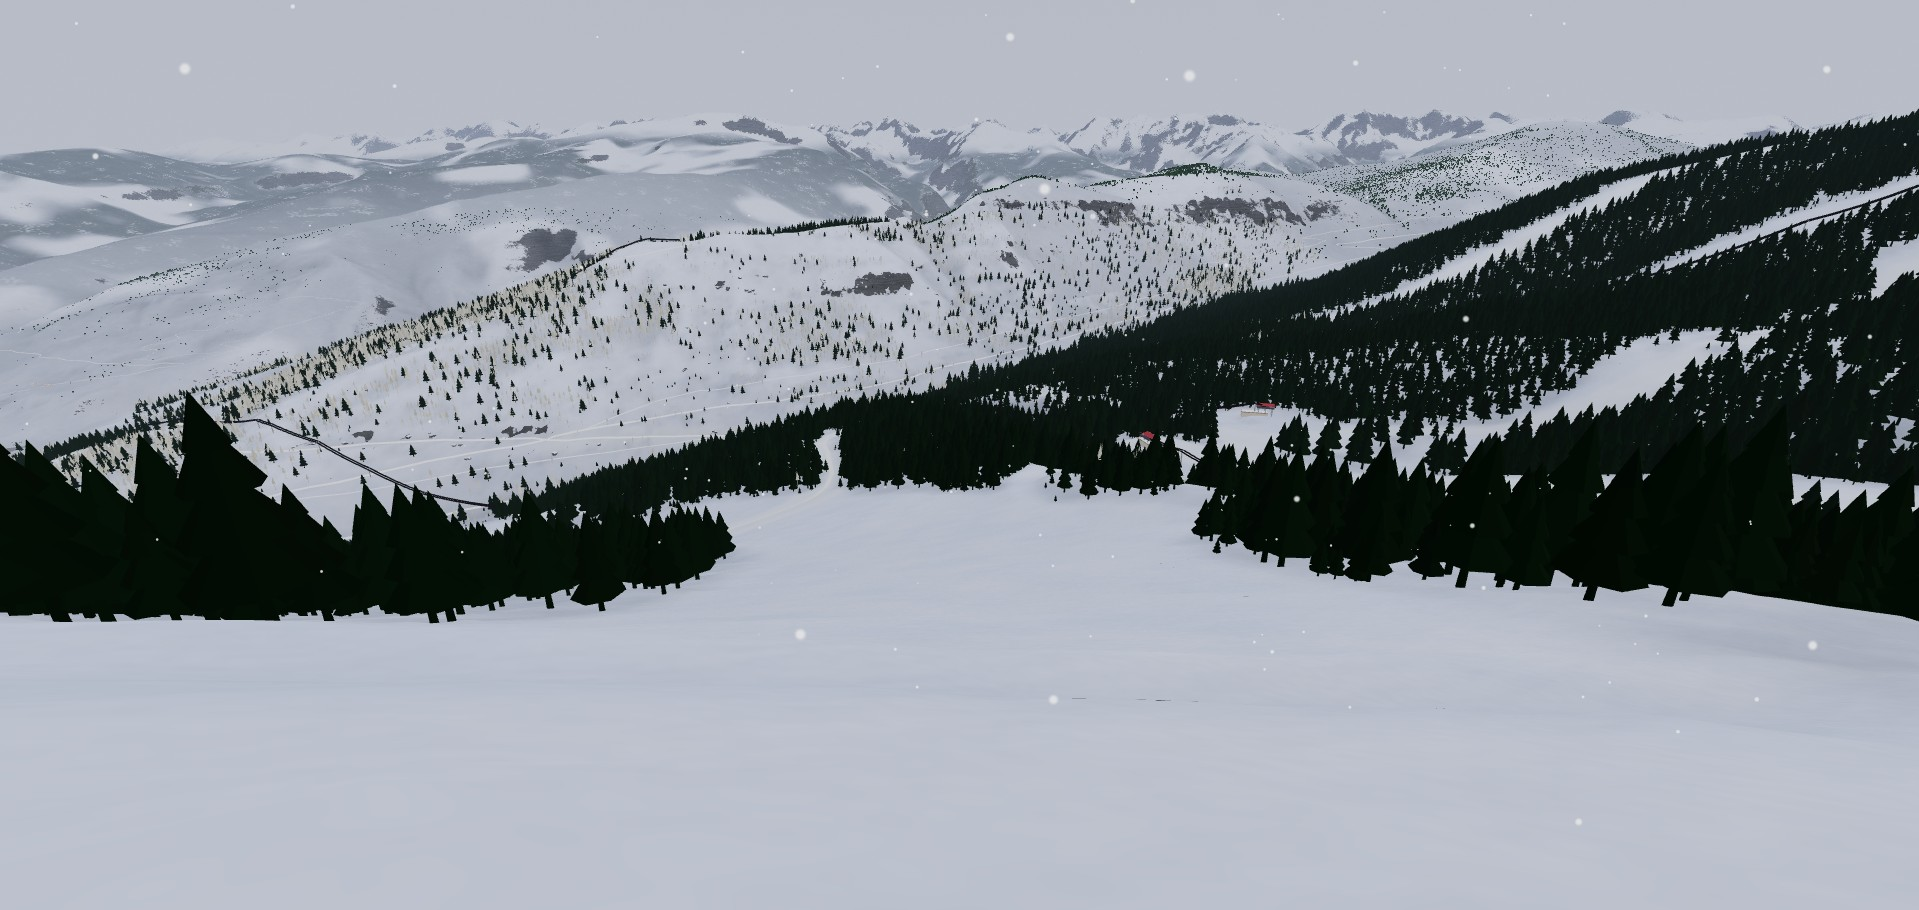
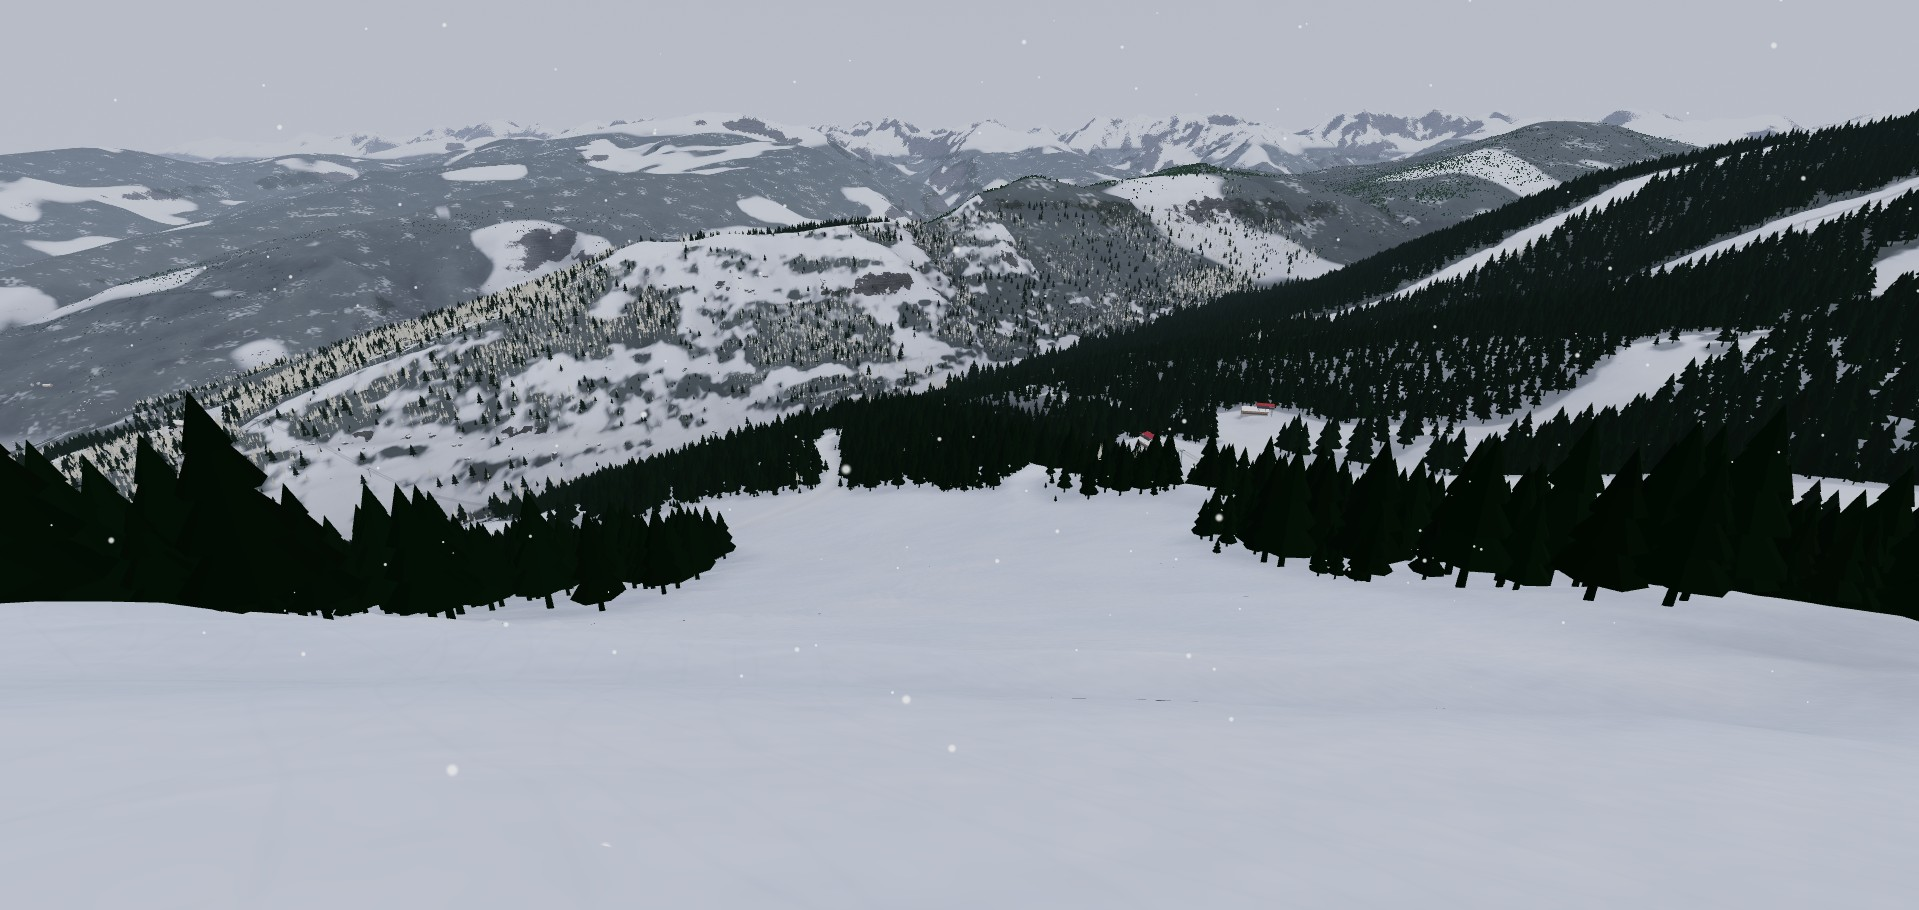
FEAT-059: shade the mogul field on coarse chunks, Vail rebuild notes, compare shots

diff --git a/game/src/terrain/Terrain.ts b/game/src/terrain/Terrain.ts
@@ -1,5 +1,5 @@
 import * as THREE from 'three';
-import { type Pack, MOGUL_MAX_RES } from '../pack/Pack';
+import { type Pack, MOGUL_MAX_RES, MOGUL_SHADE_MAX_RES } from '../pack/Pack';
 import { createTerrainMaterial } from './TerrainMaterial';
 
 /**
@@ -94,6 +94,12 @@ export class Terrain {
     u.uSkied.value = Math.max(0, Math.min(1, skied)); u.uSpring.value = Math.max(0, Math.min(1, spring));
   }
 
+  /** FEAT-059: the mogul field's amplitude multiplier and uphill creep (m) for the shaded (coarse) chunks. */
+  setMoguls(scale: number, creepM: number): void {
+    const u = this.material.userData.uniforms as { uMogulScale: { value: number }; uMogulCreep: { value: number } };
+    u.uMogulScale.value = Math.max(0, Math.min(1, scale)); u.uMogulCreep.value = creepM;
+  }
+
   /** Storm flat light: 0 = normal, 1 = overcast (snow relief and glints fade out). */
   setFlatLight(v: number): void {
     (this.material.userData.uniforms as { uFlat: { value: number } }).uFlat.value = v;
@@ -132,7 +138,7 @@ export class Terrain {
       else if (this.pack.far) this.pack.far.request(c.minX, c.minY, c.minX + c.size, c.minY + c.size);
       if (c.res <= 8 && this.pack.mask) this.pack.mask.request(c.minX, c.minY, c.minX + c.size, c.minY + c.size);
       if (c.res <= AO_MAX_RES && this.pack.ao) this.pack.ao.request(c.minX, c.minY, c.minX + c.size, c.minY + c.size);
-      if (c.res <= MOGUL_MAX_RES && this.pack.moguls) this.pack.moguls.request(c.minX, c.minY, c.minX + c.size, c.minY + c.size); // FEAT-059: bumps only on the finest chunks
+      if (c.res <= MOGUL_SHADE_MAX_RES && this.pack.moguls) this.pack.moguls.request(c.minX, c.minY, c.minX + c.size, c.minY + c.size); // FEAT-059: bump geometry on the finest chunks, shading on the next ones
       if ((!c.mesh || this.dirty.has(c.key)) && builds < MAX_BUILDS_PER_FRAME) {
         this.build(c);
         this.dirty.delete(c.key);
@@ -206,6 +212,9 @@ export class Terrain {
     const col = new Float32Array(vertCount * 3);
     const forest = new Float32Array(vertCount);
     const ao = new Float32Array(vertCount);
+    // FEAT-059: mogul amplitude for the shader on chunks too coarse to carry the bumps as geometry
+    const mogul = new Float32Array(vertCount);
+    const shadeMoguls = !!pack.moguls && res > MOGUL_MAX_RES && res <= MOGUL_SHADE_MAX_RES;
     const aoSet = pack.ao && res <= AO_MAX_RES ? pack.ao : null;
     // footprint for the AO lookup: one 2 m sample near the rider, a 2 x 2 box of samples on coarser chunks
     const aoOff = res > 2 ? res / 4 : 0;
@@ -277,7 +286,9 @@ export class Terrain {
           scree = Math.max(scree, talus * 0.9);
         }
         col[v * 3] = rock; col[v * 3 + 1] = scree * (1 - rock); col[v * 3 + 2] = groom * (1 - rock);
-        if (groom > 0.02) {
+        const mog = shadeMoguls ? pack.mogulAmp(x, y, true) * (1 - rock) : 0;
+        mogul[v] = mog;
+        if (groom > 0.02 || mog > 0.01) {
           const gx = (pack.height(x + FR, y, resB) - pack.height(x - FR, y, resB)) / (2 * FR);
           const gy = (pack.height(x, y + FR, resB) - pack.height(x, y - FR, resB)) / (2 * FR);
           fall[v * 2] = -gx; fall[v * 2 + 1] = gy; // downhill east, and z = -north
@@ -297,7 +308,7 @@ export class Terrain {
       pos[v * 3] = pos[e * 3]; pos[v * 3 + 1] = pos[e * 3 + 1] - skirt; pos[v * 3 + 2] = pos[e * 3 + 2];
       nor[v * 3] = nor[e * 3]; nor[v * 3 + 1] = nor[e * 3 + 1]; nor[v * 3 + 2] = nor[e * 3 + 2];
       col[v * 3] = col[e * 3]; col[v * 3 + 1] = col[e * 3 + 1]; col[v * 3 + 2] = col[e * 3 + 2]; forest[v] = forest[e]; ao[v] = ao[e];
-      fall[v * 2] = fall[e * 2]; fall[v * 2 + 1] = fall[e * 2 + 1];
+      fall[v * 2] = fall[e * 2]; fall[v * 2 + 1] = fall[e * 2 + 1]; mogul[v] = mogul[e];
       v++;
     }
     const idx: number[] = [];
@@ -323,6 +334,7 @@ export class Terrain {
     geo.setAttribute('forest', new THREE.BufferAttribute(forest, 1));
     geo.setAttribute('ao', new THREE.BufferAttribute(ao, 1));
     geo.setAttribute('fall', new THREE.BufferAttribute(fall, 2));
+    geo.setAttribute('mogul', new THREE.BufferAttribute(mogul, 1));
     geo.setIndex(idx);
     geo.computeBoundingSphere();
     if (c.mesh) {

diff --git a/game/src/terrain/TerrainMaterial.ts b/game/src/terrain/TerrainMaterial.ts
@@ -1,4 +1,5 @@
 import * as THREE from 'three';
+import { MOGUL_GLSL } from './Moguls';
 import { NOISE_GLSL, ROCK_GLSL, rockUniforms } from './rockShader';
 
 /**
@@ -72,6 +73,9 @@ export function createTerrainMaterial(): THREE.MeshStandardMaterial {
     uSkied: { value: 0.0 },
     uSpring: { value: 0.0 },
     uSnowLee: { value: new THREE.Vector2(1, 0) },
+    /** FEAT-059: mogul field amplitude multiplier and uphill creep (m) for the shaded coarse chunks */
+    uMogulScale: { value: 1.0 },
+    uMogulCreep: { value: 0.0 },
     /** baked AO strength (1 = as baked; debug A/B with 0) */
     uAO: { value: 1.0 },
     ...rockUniforms(),
@@ -86,15 +90,18 @@ export function createTerrainMaterial(): THREE.MeshStandardMaterial {
         attribute float forest;
         attribute vec2 fall;
         attribute float ao;
+        attribute float mogul;
         varying float vAO;
         varying float vForest;
         varying vec2 vFall;
+        varying float vMogul;
         varying vec3 vWorldPos;
         varying vec3 vWorldNormal;`)
       .replace('#include <worldpos_vertex>', `#include <worldpos_vertex>
         vWorldPos = (modelMatrix * vec4(transformed, 1.0)).xyz;
         vWorldNormal = normalize(mat3(modelMatrix) * objectNormal);
         vFall = fall;
+        vMogul = mogul;
         vAO = ao;
         vForest = forest;`);
 
@@ -106,6 +113,8 @@ export function createTerrainMaterial(): THREE.MeshStandardMaterial {
         varying float vForest;
         varying float vAO;
         varying vec2 vFall;
+        varying float vMogul;
+        uniform float uMogulScale, uMogulCreep;
         uniform float uTime;
         uniform vec3 uSnow, uSnowShade, uGroomed, uShadeTint, uSSS;
         uniform float uWrap, uGlint, uFlat, uAO;
@@ -125,6 +134,7 @@ export function createTerrainMaterial(): THREE.MeshStandardMaterial {
         float gGlintW;
         ${NOISE_GLSL}
         ${ROCK_GLSL}
+        ${MOGUL_GLSL}
         float fbm2(vec2 p) { return 0.6 * vnoise(vec3(p, 0.0)) + 0.3 * vnoise(vec3(p * 2.1, 1.7)) + 0.1 * vnoise(vec3(p * 4.3, 3.1)); }
         // corduroy across the fall line. Returns x = ridge profile (-1..1, already faded by distance),
         // y = ridge slope for the bump, zw = the across-slope direction in world xz. Also outputs the
@@ -301,6 +311,21 @@ export function createTerrainMaterial(): THREE.MeshStandardMaterial {
             float chop = uSkied * (1.0 - 0.7 * uSpring) * wS * (1.0 - smoothstep(40.0, 120.0, length(cameraPosition - wpn)));
             vec3 cb = normalize(vec3(-(cx - c0) / ec, 1.0, -(cz - c0) / ec));
             nn = normalize(mix(nn, normalize(t * cb.x + nn * cb.y + b * cb.z), 0.6 * chop));
+          }
+          // FEAT-059: on chunks too coarse to carry the bumps as geometry, shade the same mogul field
+          // (pack frame: x east, y = -world z north) so a bump run reads from the lift; fades out where
+          // the 5.7 m pattern would shimmer
+          float mogA = vMogul * uMogulScale * snowW * (1.0 - smoothstep(900.0, 1600.0, length(cameraPosition - wpn)));
+          if (mogA > 0.005) {
+            vec2 pxy = vec2(wpn.x, -wpn.z);
+            vec2 pf = vec2(vFall.x, -vFall.y);
+            float em = 0.5;
+            float m0 = mogulH(pxy, pf, mogA, uMogulCreep);
+            float mx = mogulH(pxy + vec2(em, 0.0), pf, mogA, uMogulCreep);
+            float my = mogulH(pxy + vec2(0.0, em), pf, mogA, uMogulCreep);
+            // pack +y is world -z, so the z slope is the negative of the y slope
+            vec3 mb = normalize(vec3(-(mx - m0) / em, 1.0, (my - m0) / em));
+            nn = normalize(t * mb.x + nn * mb.y + b * mb.z);
           }
           // rock and talus carry their own photo normals
           nn = normalize(nn * max(wSnow, 1e-3) + rockN * rockCov + screeN * screeCov);

diff --git a/game/src/terrain/Moguls.ts b/game/src/terrain/Moguls.ts
@@ -22,12 +22,12 @@ const TWO_PI = Math.PI * 2;
 const JITTER_CELL = 25; // m: scale of the phase jitter that breaks the perfect grid
 const JITTER_RAD = 0.8;
 
-/** cheap 2D hash to -1..1 */
+/** cheap 2D hash to -1..1, in uint32 arithmetic so MOGUL_GLSL reproduces it bit for bit */
 function hash(ix: number, iy: number, salt: number): number {
-  let h = (ix * 374761393 + iy * 668265263 + salt * 1442695041) | 0;
-  h = Math.imul(h ^ (h >>> 13), 1274126177);
-  h ^= h >>> 16;
-  return ((h & 0xffff) / 0x7fff) - 1;
+  let h = (Math.imul(ix, 374761393) + Math.imul(iy, 668265263) + Math.imul(salt, 1442695041)) >>> 0;
+  h = Math.imul(h ^ (h >>> 13), 1274126177) >>> 0;
+  h = (h ^ (h >>> 16)) >>> 0;
+  return (h & 0xffff) / 32767.5 - 1;
 }
 
 /** bilinear value noise in -1..1 at a 25 m cell size */
@@ -58,6 +58,38 @@ export function mogulHeight(x: number, y: number, amp: number, fallX: number, fa
   const s = 0.5 + 0.5 * f;
   return a * Math.pow(s, 1.6);
 }
+
+/**
+ * The same field in GLSL for the terrain shader, which shades coarser chunks (no bump geometry) with
+ * it: mogulH(pxy, fall, amp, creep) takes pack coordinates (x east, y north) and the downhill
+ * direction in the same frame. Keep in step with mogulHeight above.
+ */
+export const MOGUL_GLSL = /* glsl */ `
+  float mogHash(int ix, int iy, int salt) {
+    uint h = uint(ix) * 374761393u + uint(iy) * 668265263u + uint(salt) * 1442695041u;
+    h = (h ^ (h >> 13u)) * 1274126177u;
+    h ^= h >> 16u;
+    return float(h & 0xffffu) / 32767.5 - 1.0;
+  }
+  float mogJitter(vec2 p, int salt) {
+    vec2 f = p / ${JITTER_CELL.toFixed(1)};
+    vec2 i = floor(f);
+    vec2 t = f - i;
+    t = t * t * (3.0 - 2.0 * t);
+    int ix = int(i.x), iy = int(i.y);
+    float a = mogHash(ix, iy, salt), b = mogHash(ix + 1, iy, salt), c = mogHash(ix, iy + 1, salt), d = mogHash(ix + 1, iy + 1, salt);
+    return mix(mix(a, b, t.x), mix(c, d, t.x), t.y);
+  }
+  float mogulH(vec2 pxy, vec2 fall, float amp, float creep) {
+    float l = length(fall);
+    vec2 fd = l > 1e-6 ? fall / l : vec2(1.0, 0.0);
+    float u = dot(pxy, fd);
+    float v = -pxy.x * fd.y + pxy.y * fd.x;
+    float k = 6.2831853 / ${MOGUL_SPACING.toFixed(2)};
+    float f = sin(k * (u + creep) + ${JITTER_RAD.toFixed(2)} * mogJitter(pxy, 1)) * sin(k * v + ${JITTER_RAD.toFixed(2)} * mogJitter(pxy, 2));
+    return amp * pow(0.5 + 0.5 * f, 1.6);
+  }
+`;
 
 /**
  * Unit downhill direction at (x, y) from central differences of `baseH` at +-d metres, written into

diff --git a/game/src/pack/Pack.ts b/game/src/pack/Pack.ts
@@ -3,8 +3,10 @@ import { MaskSet } from './MaskSet';
 import type { Features, PackMeta } from './types';
 import { fallFrom, mogulHeight } from '../terrain/Moguls';
 
-/** chunks at this resolution or finer carry the mogul bumps (coarser ones average them out) */
+/** chunks at this resolution or finer carry the mogul bumps in their geometry */
 export const MOGUL_MAX_RES = 2;
+/** coarser chunks up to this resolution shade the same field in the terrain shader (seen from the lift) */
+export const MOGUL_SHADE_MAX_RES = 16;
 
 /** A straight bridge deck segment (pack metres). The surface runs from a to b at the given z. */
 export interface Deck { ax: number; ay: number; az: number; bx: number; by: number; bz: number; hw: number }
@@ -100,9 +102,9 @@ export class Pack {
   private readonly fallTmp = [1, 0];
 
   /** FEAT-059: mogul amplitude (m) at a point from the pack's moguls set; 0 without the set or its tile. */
-  mogulAmp(x: number, y: number): number {
-    if (!this.moguls || this.mogulScale <= 0) return 0;
-    return this.moguls.sampleBilinear(x, y, this.mogTmp)[0] * this.mogulScale;
+  mogulAmp(x: number, y: number, raw = false): number {
+    if (!this.moguls || (!raw && this.mogulScale <= 0)) return 0;
+    return this.moguls.sampleBilinear(x, y, this.mogTmp)[0] * (raw ? 1 : this.mogulScale);
   }
 
   /** FEAT-059: the bump height at a point: the field's amplitude here, aligned to the local fall line. */

diff --git a/game/src/main.ts b/game/src/main.ts
@@ -873,6 +873,7 @@ function runSession(pack: Pack, renderer: THREE.WebGLRenderer, canvas: HTMLCanva
         const seasonStart = Date.UTC(d.getUTCMonth() >= 10 ? d.getUTCFullYear() : d.getUTCFullYear() - 1, 10, 15);
         const seasonDays = Math.max(0, Math.min(150, (d.getTime() - seasonStart) / 86400000));
         pack.setMoguls(params.has('nomoguls') ? 0 : 1 - 0.6 * snowCover, MOGUL_CREEP_M_PER_DAY * seasonDays);
+        terrain.setMoguls(pack.mogulScale, pack.mogulCreep);
       }
       rocks.setSnow(Math.min(1, snowCover * 3), snow.wind.x, snow.wind.y); // boulder tops fill three times faster than the slopes
       roads.update(fx, fy);

diff --git a/docs/HANDOFF.md b/docs/HANDOFF.md
@@ -60,6 +60,12 @@ Packs need a rebuild from 20526bf or later: `ao/` tiles (baked sky visibility, `
 
 Built on one branch from the research doc (`docs/research/outrun-mode.md`): `game/src/sim/Outrun.ts` (the chase sim), `world/Monster.ts` (the procedural yeti rig and gallop), `world/Eat.ts` (the eat sequence), `audio/ChaseAudio.ts` (spatial sound and music stages, the jukebox `chase` style), `ui/OutrunUI.ts` (HUD and card), the Outrun panel in the pause menu. Checked headless on Vail with `game/tools/outruncheck.mjs` (countdown, head start, spawn 150 to 250 m back, chase, lift ride, catch, eat, card). Not yet tuned by hand on the real GPU: the Normal speed law (`PRESETS` in Outrun.ts) and the eat timing are the first things to play with. Known gaps: no tree sway (a puff and a crack instead), the monster's fur is a jittered flat-shaded silhouette with tufts, and the base rule picks the lowest lift-base building cluster nearest the start.
 
+## 2026-11-09: moguls where they really form (FEAT-059)
+
+Packs need a rebuild from this change for the bumps: a `moguls/` greyscale tile set (amplitude 0..1 m on the mask grid) and `mogulScore` per run in features.json, both from `pipeline/moguls.py`. The score is grooming reports (never groomed 1.0, a few nights 0.6, regular 0), difficulty, the run's 75th-percentile slope (its steep pitch, since Highline averages 15 degrees end to end), aspect (north best) and a lift-top term; cat tracks, glades and greens never score, and OSM `piste:grooming=mogul` is a definite yes. The build paints each score along the run corridor (fading over the outer 3 m) times the per-cell slope window (15 to 40 degrees), and removes it under canopy, on corduroy, built-up ground and rock. Vail rebuilt on Drew's PC: 107 of 354 runs at 0.3 or more, 91 ha of fields, mean amplitude 0.48 m; Highline, Prima Middle and Brown's Face 1.0, Pronto 0.8, Look Ma, Cookshack and Log Chute 0.72, Milt's Face and Campbell's 0.61, Blue Ox 0.54 (groomed 3 of 42 report nights), Whistle Pig 0.24, every regularly groomed blue and green 0.
+
+Client: `game/src/terrain/Moguls.ts` is the shape (staggered sin x sin field, 5.7 m spacing, rounded tops, 25 m phase jitter, aligned to the local fall line from 6 m DEM differences), added in `Pack.terrainHeight` (so physics and `groundNormal` see it) and in `Pack.height` for chunks at 2 m or finer, so the board sits on what is drawn; chunks from 4 to 16 m carry the amplitude as a vertex attribute and `TerrainMaterial` shades the same field (the GLSL twin `MOGUL_GLSL` in Moguls.ts, same hash) so a bump run reads from the lift, fading out beyond about 1 km. The phase creeps uphill 8 cm a day from 15 November of the sun date (the Month setting, or today with `time=now`) and new snow softens the field by up to 60 %. The Rider's takeoff margin drops from 1.5 to 0.2 m/s on a full field so bumps throw the rider (the 1.5 m/s absorbs 1 m DEM noise elsewhere): on a 25 degree plane the rider is thrown 11 times in 12 s and runs 13.7 m/s against 21.4 on the groomer beside it (`node tools/mogulcheck.mjs`). The resort map's hover line shows the nearest run's score, and `?debug` under-strokes runs at 0.3 or more in orange. Not yet tuned by hand on the real GPU: the amplitude (`mogulScore` to metres is 1:1, capped at 1 m), the bump shape exponent and the hand-over from geometry (2 m chunks) to shading (4 m and coarser) are the first things to play with. The Street View eye points at Campbell's and Prima stand beside the bump runs rather than on them, so those pairs barely change; the Highline shots in `docs/screenshots/feat-059-highline-*.png` are the look reference.
+
 ## 2026-11-08: adaptive quality (FEAT-062)
 
 `game/src/ui/AutoQuality.ts` holds the target frame rate by stepping through five cumulative levels (render resolution, cloud steps one preset lower, tree density, snowfall), cheapest visual loss first. It steps down after 2 s below 92% of the target and tries back up after 8 s at target, with a doubling wait (up to 2 min) if the step back up relapses. `main.ts` applies the level in `applySettings` and `applyAuto`. New settings: Auto quality (`autoQuality`, on by default) and Target FPS (`targetFps`: 30, 60 or 0 = uncapped; auto quality aims for 60 when it is 0; 30 also skips display frames). The HUD stats line shows the current level text from `auto.describe()` whenever the level is above 0. Not yet tuned by hand on the real GPU: the thresholds and `LEVELS` are the first things to play with.

diff --git a/docs/pack-format.md b/docs/pack-format.md
@@ -55,8 +55,8 @@ Greyscale PNG on the mask grid: mogul amplitude 0..255 = 0..1 m from `pipeline/m
 `area` runs are filled), times a slope window (none below 15 degrees, full 20 to 35, none above 40),
 and removed under canopy, on groomed corduroy, built-up ground and rock. Padding outside the data is 0.
 The client turns the amplitude into a fall-line-aligned staggered bump field (`game/src/terrain/Moguls.ts`,
-5.7 m spacing) in both the physics height and the near terrain mesh (chunks at 2 m or finer). Packs
-without the set have no bumps.
+5.7 m spacing) in both the physics height and the near terrain mesh (chunks at 2 m or finer), and shades
+the same field in the terrain shader on chunks from 4 to 16 m. Packs without the set have no bumps.
 
 ## Instances
 
